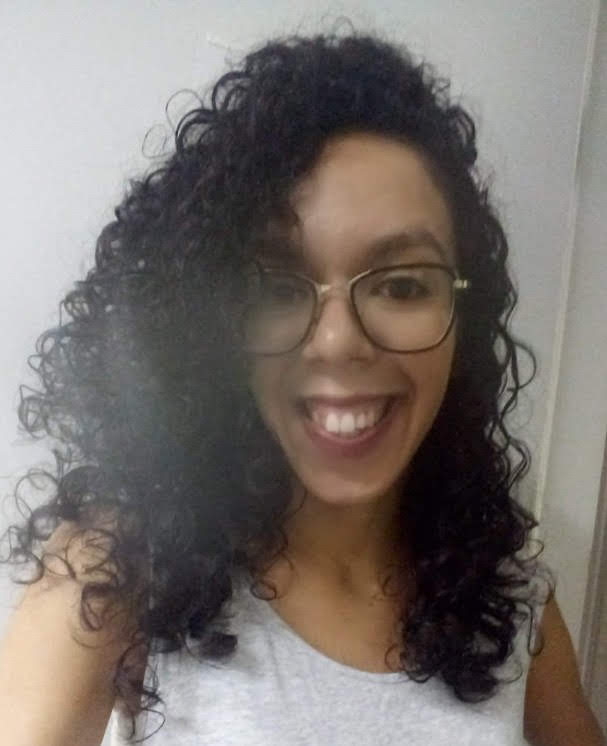
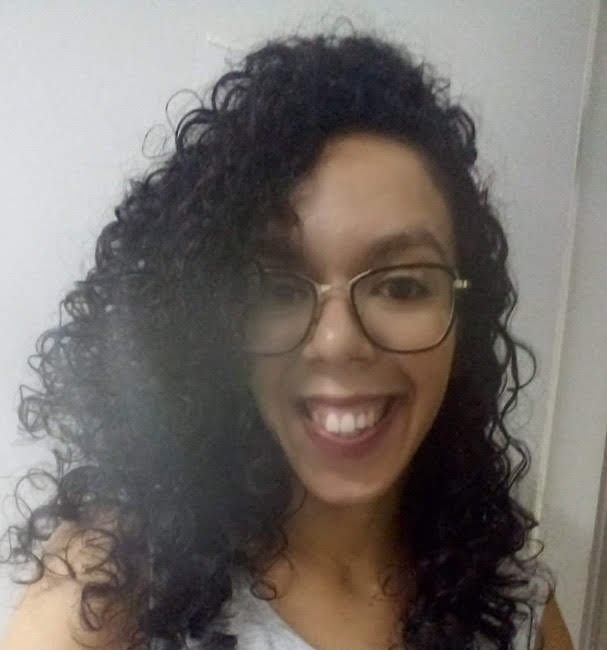
Atualização 1.2 - dando um up no css

diff --git a/semana1/portfolio/index.html b/semana1/portfolio/index.html
@@ -4,38 +4,63 @@
 <head>
 	<meta charset="UTF-8"/>
 	<meta name="viewport" content="width=device-width, initial-scale=1"/>
-	<title>Portfólio - Nathália Costa</title>
+	<title>Nathália Costa</title>
 	<meta name="description" content="Portfólio inicial."/>
 	<meta name="keywords" content="future4, Portfólio, projetos"/>
     <link rel="icon" href="bol.png">
 	<meta name="author" content="Nathalia Costa"/>
     <meta name="viewport" content="width=device-width, initial-scale=1.0"/>
     <link rel="stylesheet" type="text/css" href="style.css">
-    <link href="https://fonts.googleapis.com/css2? family = Jura: wght @ 600 & display = swap" rel = "folha de estilo">
+    <link href="https://fonts.googleapis.com/css2?family=Jura:wght@600&display=swap" rel="stylesheet">
 </head>
 
 <body>
     <header>
-		<div id="nav">
-            <img src=""></a>
-			<a href="index.html">HOME</a>
-            <a href="">PROJETOS</a>
-            <a href="">CURRICULO</a>
-			<a href="#email">CONTATO</a>
-		</div>
-	</header>
-    <section>
-        <div id="img1">
-            <img src="perfil-nthl.jpeg.jpeg"/>
+        <div class="menu">
+            <a href="index.html">HOME</a>
+            <a href="#formacoes">FORMAÇÕES</a>
+            <a href="#projetos">PROJETOS</a>
+            <a href="#email">CONTATO</a>
         </div>
-        <div id="section1">
-            <h1>Portfólio - Nathália Constantino Costa</h1>
+	</header>
+    <section class="perfil">
+        <div class="bio-foto">
+            <img src="ntthl.jpeg"/>
+        </div>
+        <div class="bio-texto">
+            <h1>Nathália Constantino Costa</h1>
+            <h4>Estudante de Desenvolvimento Full Stack</h4>
+        </div>
+    </section>
+    <section id="formacoes">
+        <div id="formacoes-titulo">
+            <h1>FORMAÇÕES</h1>
+        </div>
+        <div class="formacoes-descricao">
+            <p>Desenvolvimento Full Stack - Future4</p>
+            <p>Instrumentalidade do Serviço Social - PÓSFAR</p>
+            <p>Serviço Social - UnP</p>
+        </div>
+    </section>
+    <section id="projetos">
+        <div id="projetos-titulo">
+            <h1>PROJETOS</h1>
+        </div>
+        <div class="projetos-descricao">
+            <td>
+                <tr href="https://repl.it/@NathliaCosta/ProjetoFuture4Nathaliacc">Projeto da Selecão - Future4</tr>
+                <tr href="">Sistema de Loja - Future4</tr>
+            </td>
         </div>
     </section>
     <footer>
-      <div class="box1">
+      <div class="form-contato">
       <form>
-        <input type="text" id="email"placeholder="Coloque seu e-mail para contato! :)">
+        <input type="text" id="text"placeholder="Digite seu nome">
+        <input type="text" id="email"placeholder="Coloque seu e-mail">
+        <input type="text" id="mensagem"placeholder="Escreva sua mensagem...">
+        <br>
+        <br>
         <input type="submit" id="benviar">
       </form>
       </div>

diff --git a/semana1/portfolio/style.css b/semana1/portfolio/style.css
@@ -1,81 +1,114 @@
 *{margin: 0; padding: 0; font-family: 'Jura', sans-serif;}
 body{
-    color: white;
-    font-family: 'Jura', sans-serif;
-    font-size: 14px;
+  color: black;
+  font-family: 'Jura', sans-serif;
+  font-size: 14px;
 }
 /* NAV */
 header{
-    background: rgba(255, 255, 255, 0.753); 
-    height: 100px;}
-#nav{
-  display: flex;
-  text-align: center;
-  margin: 10px;
-  padding: 0;
+  background: rgb(192, 192, 192); 
+  height: 50px;
+  margin-top: 25px;
 }
-#nav a{
-  color: black;
-  padding: 14px 20px;
+.menu{
+  text-align: center;
+  padding-top: 15px;
+}
+.menu a{
   text-decoration: none;
-  text-align: center;
+  color: black;
+  padding: 10px;
 }
-#nav a:hover{
-    background-color: rgb(192, 192, 192); 
-    color: white;
-    border-radius:10%;   
+.menu a:hover{
+  background-color: rgb(37, 37, 37);
+  color: white;
 }
 /* SECTION */
-section{
-    background: rgb(192, 192, 192);
+section, .perfil{
+  background: rgb(255, 255, 255);
+  display: flex;
 }
-#section1 h1{
-    text-align: center;
-    padding: 50px 0 50% 0;
-    font-size: 15px;
+.bio-foto img{ 
+  width: 150px; 
+  height: auto;
+  border-radius:50%;
+  margin: 50px;
 }
-#img1{ 
-    text-align: center; 
-    padding-top: 50px;}
-img{ 
-    width: 150px; 
-    height: auto;
-    border-radius:50%;
+.bio-texto{
+  margin-top: 80px;
 }
-#section2 p {
-  font-size: 12px;
-  font-style: italic;
-  text-align: right;
+.bio-texto h1{
+  font-size: 30px;
+  font-style: ;
+}
+.bio-texto h4{
+  font-size: 15px;
+}
+#formacoes{
+  background: black;
+  text-align: center;
+  padding: 80px;
+  padding-top: 40px;
+  margin: 0;
+  color: rgb(255, 255, 255);
   display: block;
-  padding-top: 120px;
-  padding-right: 10px;
+}
+#formacoes-titulo{
+  padding-bottom: 40px;
+}
+section .formacoes-descricao p{
+  padding: 10px;
+  display: inline-block;
+}
+#projetos{
+  background: black;
+  text-align: center;
+  padding: 80px;
+  padding-top: 40px;
+  margin: 0;
+  color: rgb(255, 255, 255);
+  display: block;
+}
+#projetos-titulo{
+  padding-bottom: 40px;
+}
+section .projetos-descricao tr{
+  padding: 50px;
+  display: block;
 }
 /* FOOTER */
 footer {
   padding: 40px 0 48px 0px;
   text-align: center;
-  background: white;
+  background: rgb(192, 192, 192);
   color: black;
-  position: relative;
+  margin-bottom: 0;
 }
-.box1{
+.form-contato{
   padding:0;
   margin:0;
-  border: 0
+  border: 0;
+  float: center;
+}
+#text{
+  padding:6px;
+  width: 200px;
 }
 #email{
-  padding: 10px;
+  padding: 6px;
   background: white;
-  white-space: nowrap;    
-  border: 1px solid #grey;
-  width: 300px;
-  float: center;  
+  white-space: nowrap;
+  width: 200px;
+}
+#mensagem{
+  padding: 6px;
+  background: white;
+  white-space: nowrap;
+  width: 200px;
 }
 #benviar{
-  padding: 10px;
-  background:  white;
+  padding: 6px;
   color: black;
-  width: 100px;
+  width: 70px;
   cursor: pointer;
-  float: center;
 }
